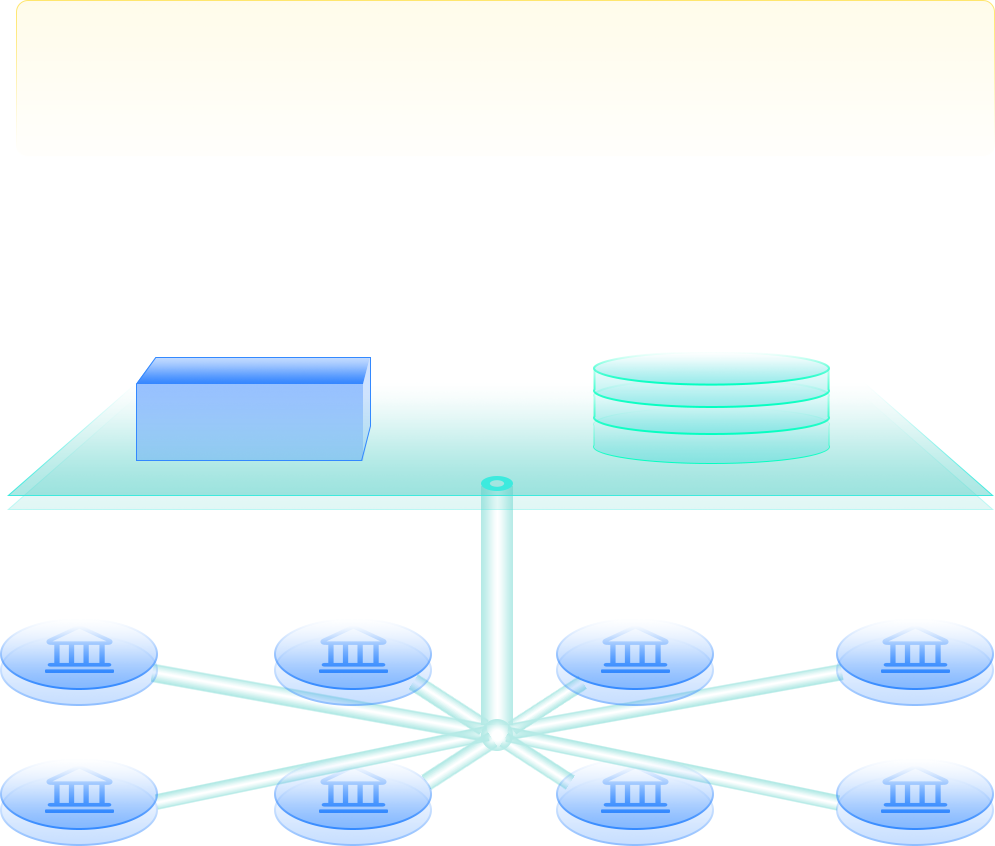
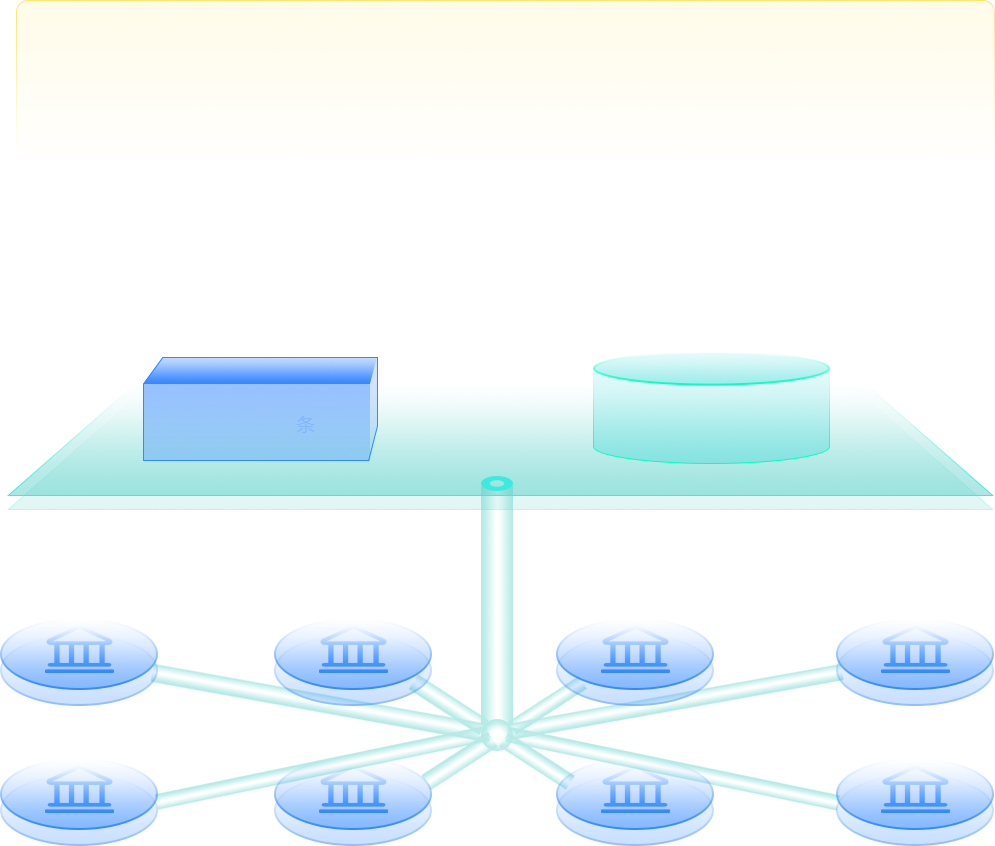
数据服务线条动效制作

Changed region(s): [[0.592, 0.4303, 0.8412, 0.5225], [0.3427, 0.4303, 0.405, 0.5532], [0.1246, 0.4303, 0.1558, 0.5532]]

diff --git a/src/assets/css/common.css b/src/assets/css/common.css
@@ -5560,31 +5560,31 @@ table.singleColumForm td .treeSelect>input.treeInput {
     margin-left: 20px;
 }
 .stream_line_1{
-    top: -24px;
+    top: -54px;
     left: 810px;
 }
 .stream_line_2{
-    top: 154px;
+    top: 124px;
     left: 670px;
 }
 .stream_line_3{
-    top: 496px;
+    top: 466px;
     left: 700px;
 }
 .stream_line_4{
-    top: -24px;
+    top: -54px;
     right: 810px;
 }
 .stream_line_5{
-    top: 154px;
+    top: 124px;
     right: 700px;
 }
 .stream_line_6{
-    top: 324px;
+    top: 294px;
     right: 610px;
 }
 .stream_line_7{
-    top: 496px;
+    top: 466px;
     right: 690px;
 }
 .stream_line_8{
@@ -6133,4 +6133,34 @@ table.singleColumForm td .treeSelect>input.treeInput {
     color: #78b1ff;
     vertical-align: middle;
     margin-left: 6px;
+}
+.center_line-wrap{
+    position: relative;
+    top: -29px;
+    left: -16px;
+    width: 788px;
+    height: 684px;
+    overflow: hidden;
+}
+.center_line{
+    position: absolute;
+    transform: translateX(-50%) translateY(-50%);
+    left: 50%;
+    top: 50%;
+    width: 804px;
+    height: 684px;
+    background-image: url(../images/spritesheet_line.png);
+    background-repeat: no-repeat;
+    background-position-x: center;
+    background-position-y: 0;
+    animation: sprite2 1.5s steps(89) infinite;
+}
+
+@keyframes sprite2{
+    0% {
+        background-position-y: 0px;
+    }
+    100% {
+        background-position-y: -60876px;
+    }
 }

diff --git a/src/components/datacontrol/content-cultivation.vue b/src/components/datacontrol/content-cultivation.vue
@@ -2,7 +2,11 @@
   <div class="content content_rise">
       <dateFilter groupName="dateRadio" :radioList="['今日','近周','近月','累计']" @timeSelect="passModel"/>
       <div class="serve_center_wrap">
-          <div class="serve_center"></div>
+          <div class="serve_center">
+              <div class="center_line-wrap">
+                <div class="center_line"></div>
+              </div>
+          </div>
           <div class="serve_department" v-for="(serve, index) in serve_department_list" :key="index" :class="'departmentBlock_'+(index+1)">
             <h4>
                 <span class="name">{{serve.name}}</span>
